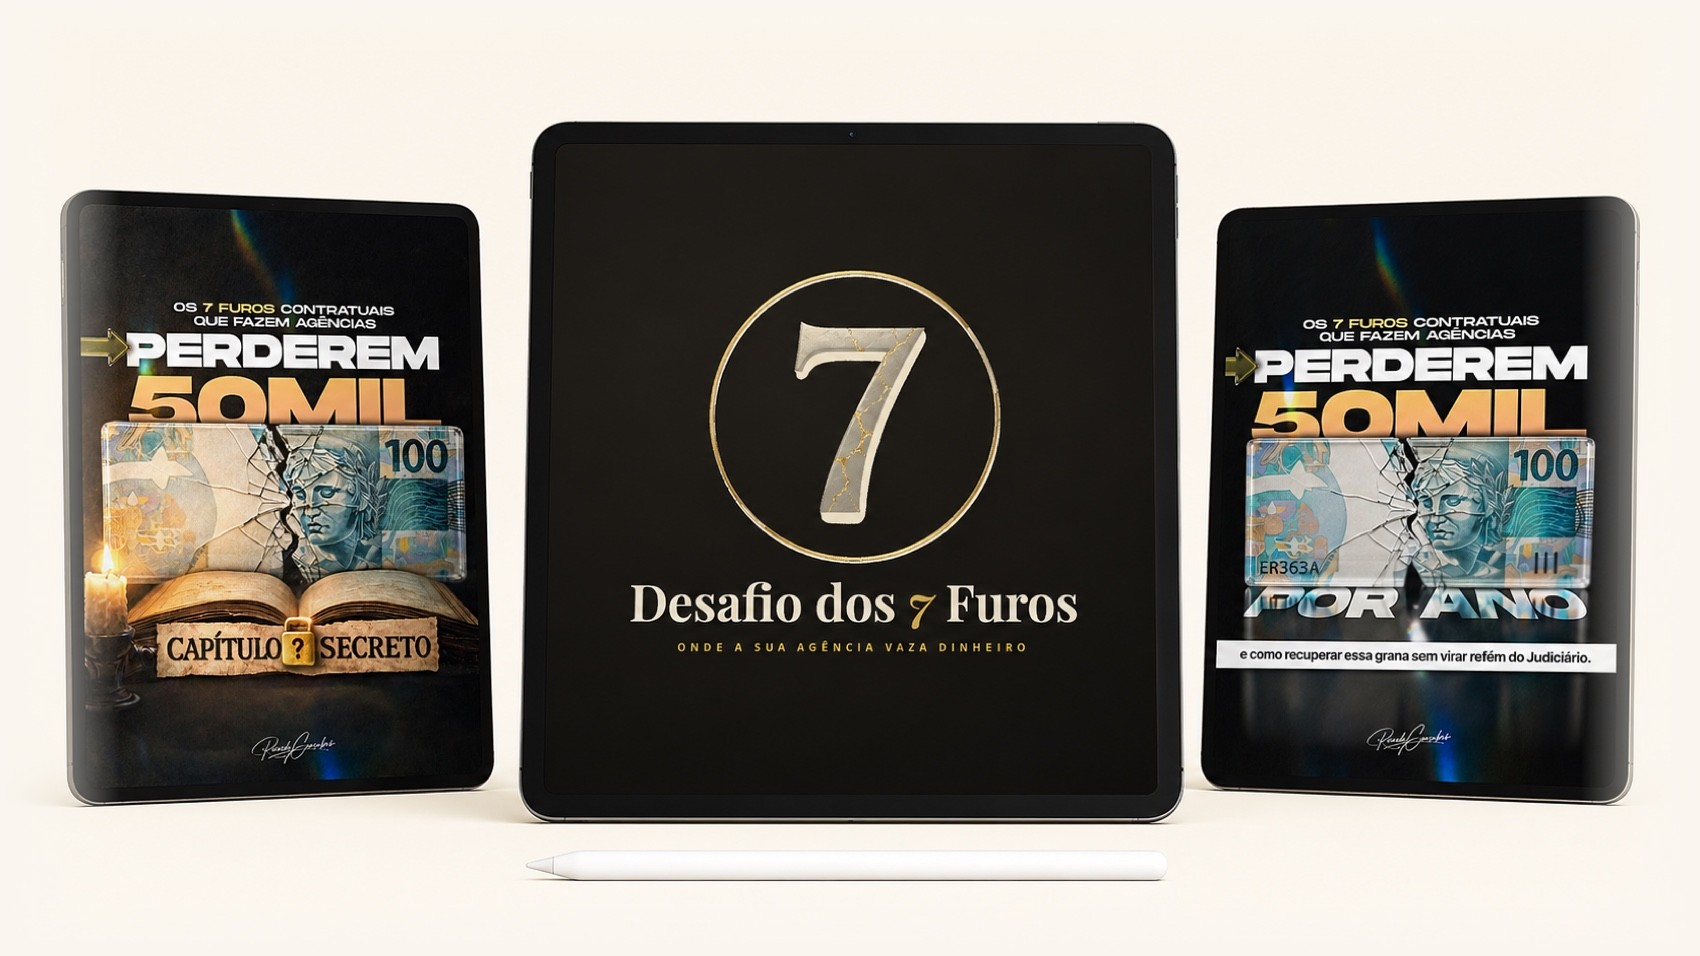
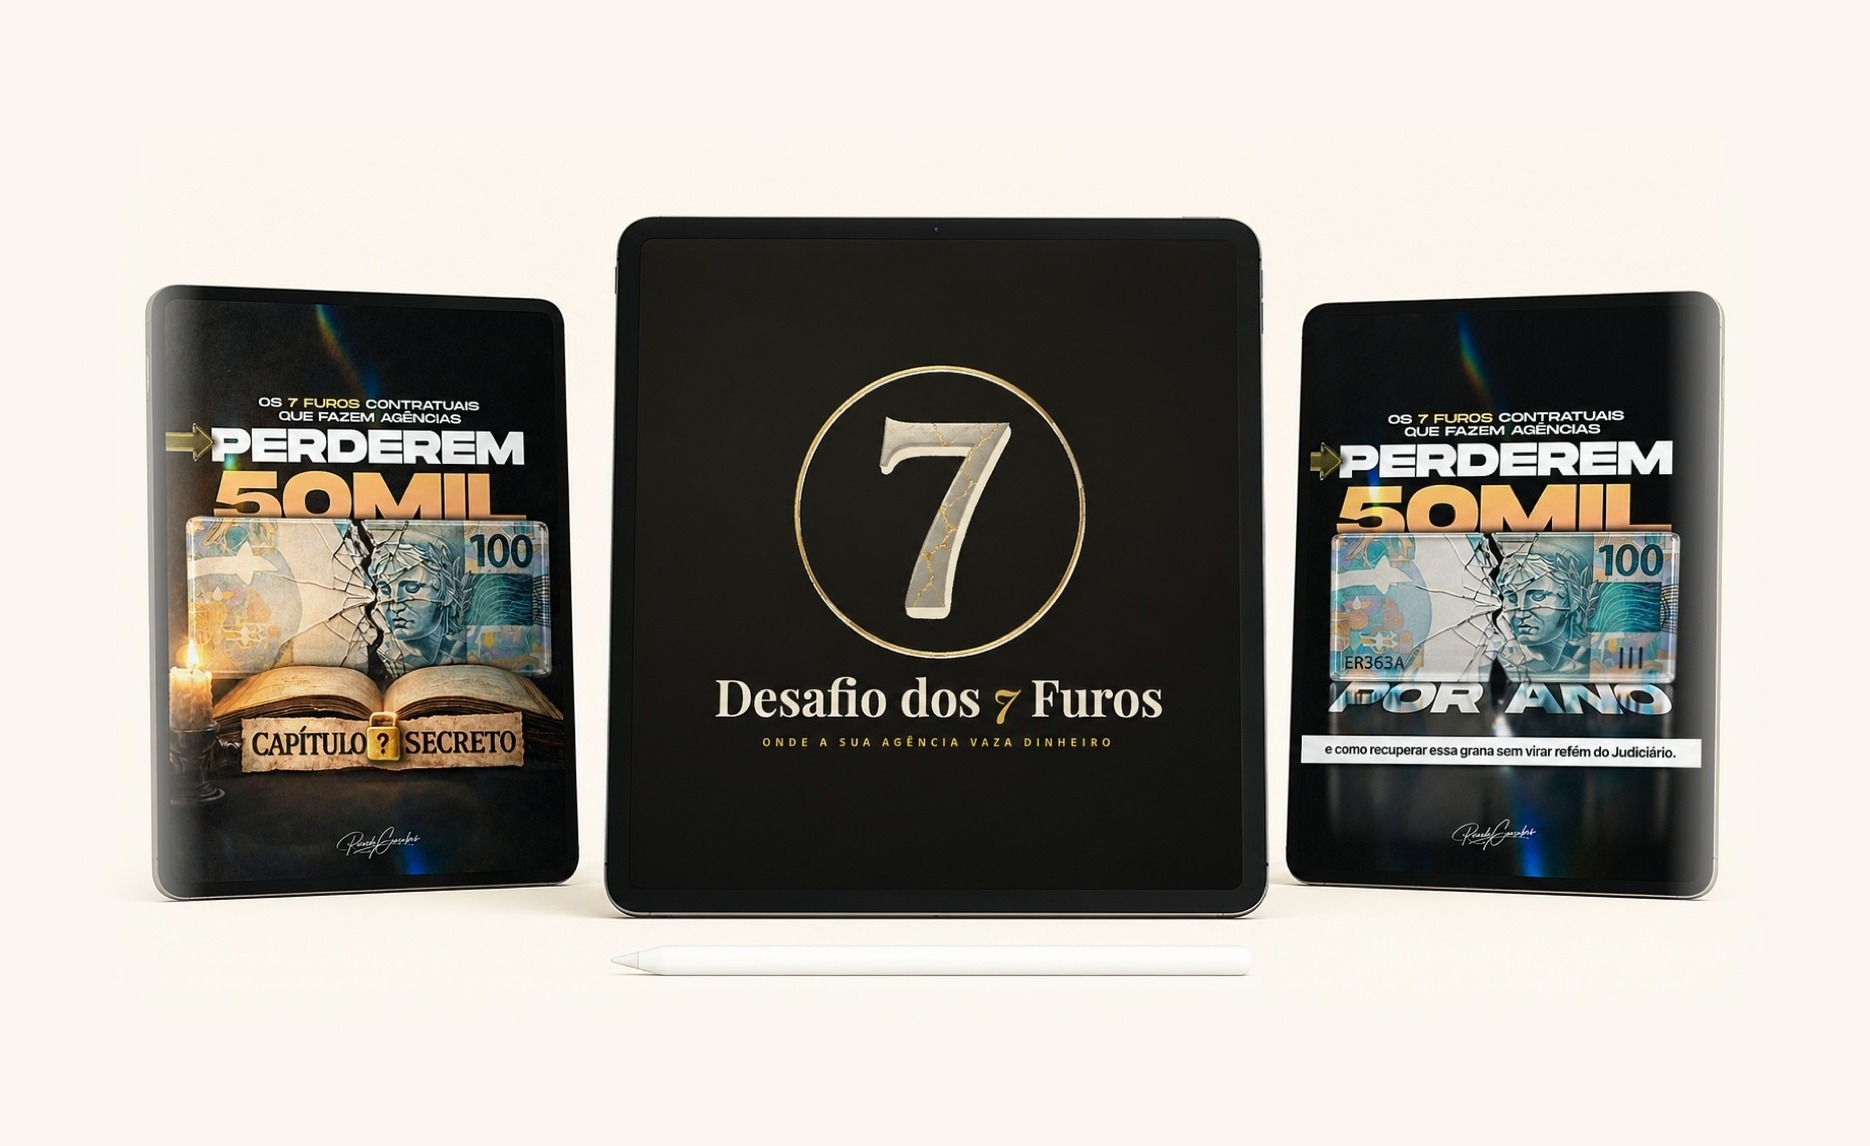
Combo integrado ao fundo creme (esfumado, sem card/sombra) como as tigelas

diff --git a/index.html b/index.html
@@ -202,7 +202,7 @@ html.js-anim .reveal.in{opacity:1;transform:none}
 html.js-anim .reveal[style*="--d"]{transition-delay:var(--d)}
 
 /* combo — imagem estática, centralizada, inteira na tela (sem animação) */
-.combo-img{display:block;width:100%;max-width:600px;margin:18px auto 4px;border-radius:6px;box-shadow:0 24px 58px rgba(30,26,22,.14)}
+.combo-img{display:block;width:100%;max-width:720px;margin:6px auto 0}
 
 /* dock dos entregáveis — arrastar para o lado + magnificação por proximidade (macOS Dock) */
 .dock{width:100vw;margin-left:calc(50% - 50vw);overflow-x:auto;overflow-y:hidden;-webkit-overflow-scrolling:touch;scrollbar-width:none;padding:58px 0 28px;cursor:grab;overscroll-behavior-x:contain}